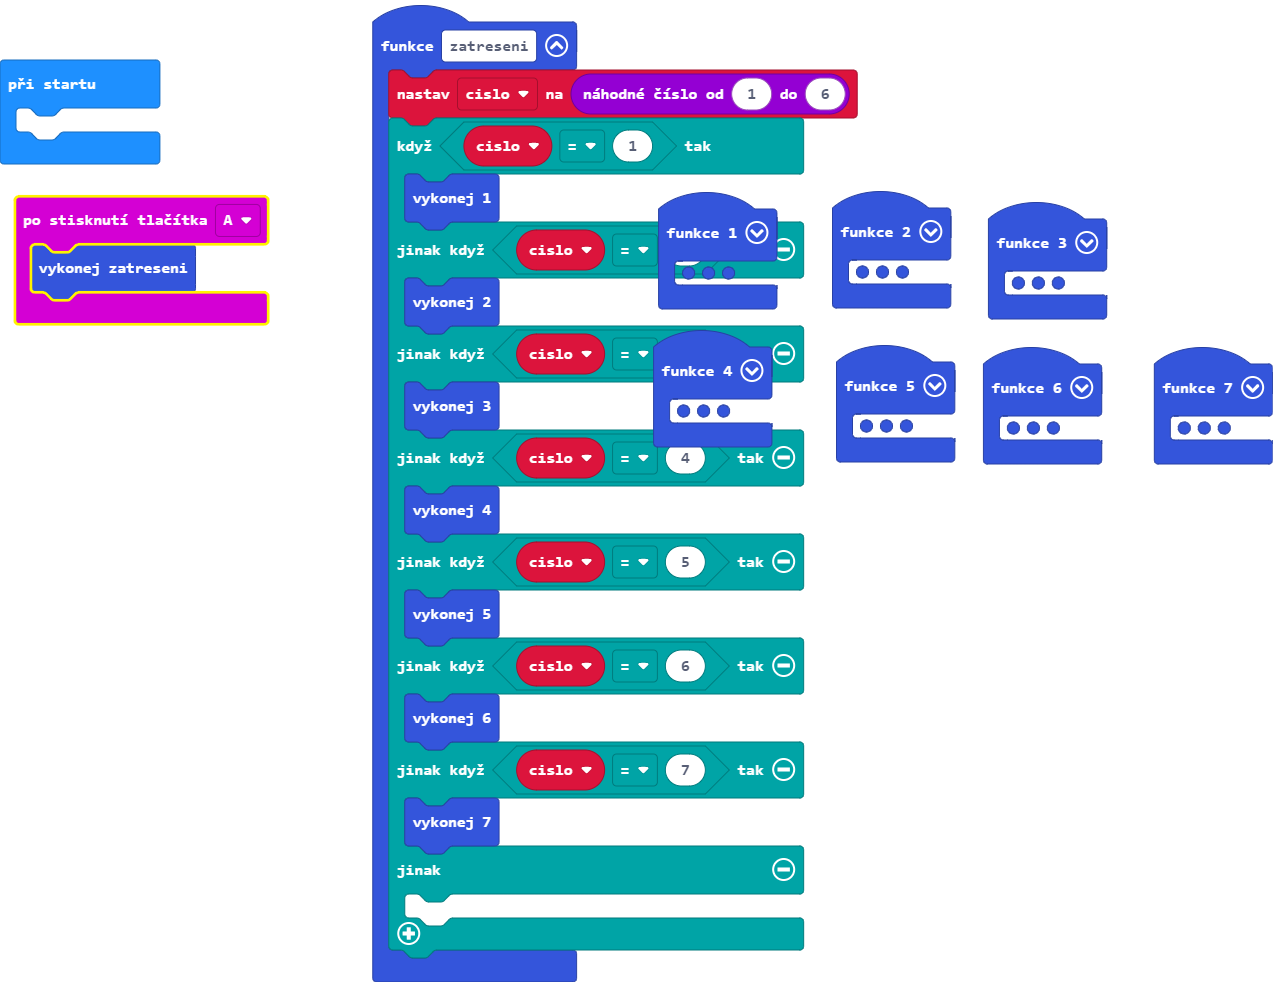
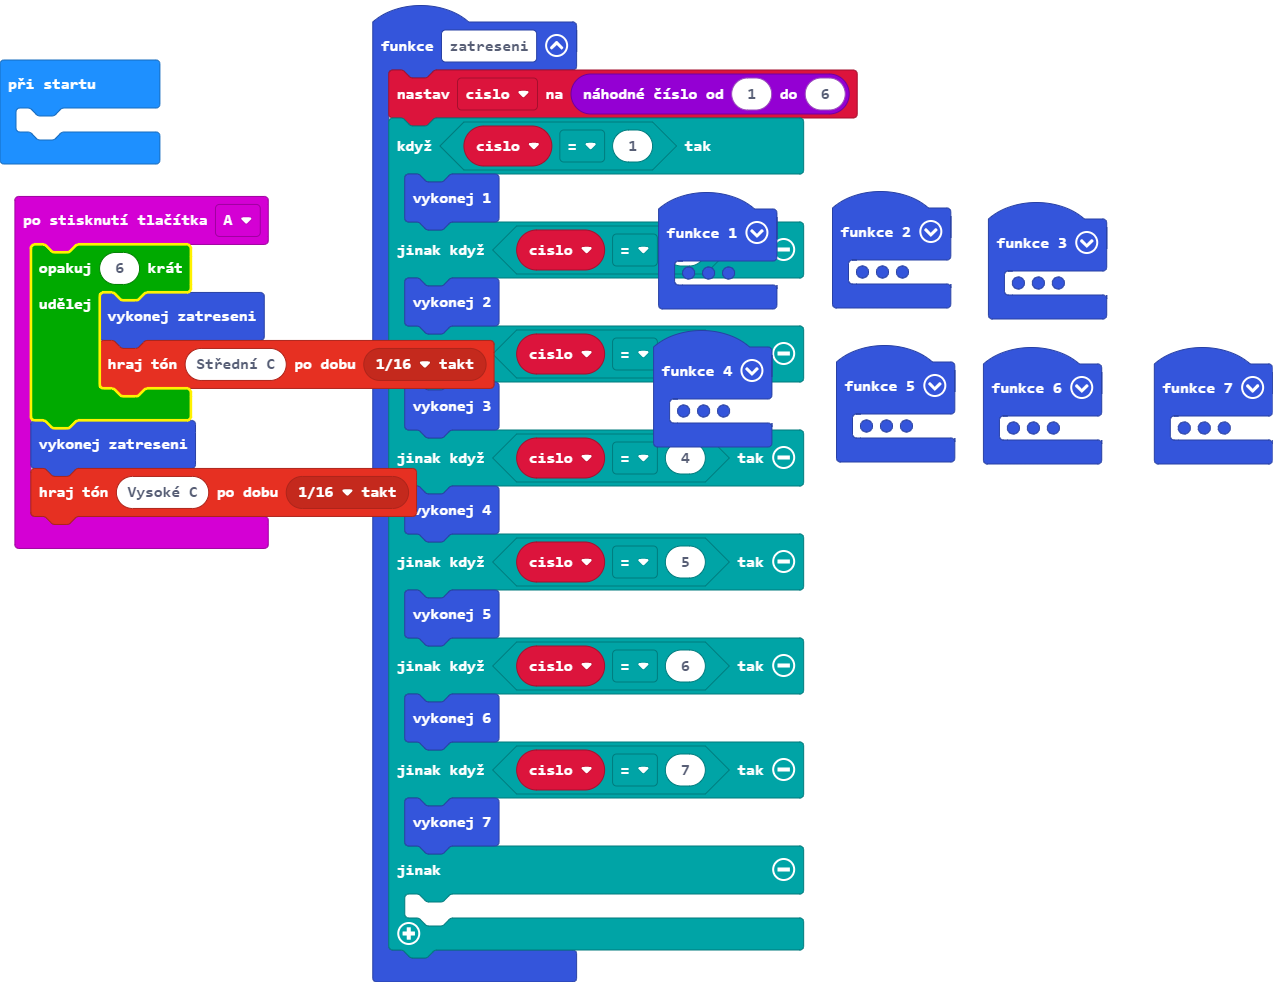
Update main.blocks, main.ts

Changed region(s): [[0.0, 0.1833, 0.3983, 0.5804], [0.1838, 0.1833, 0.2145, 0.2444]]

diff --git a/main.ts b/main.ts
@@ -47,7 +47,12 @@ function _6 () {
         `)
 }
 input.onButtonPressed(Button.A, function () {
+    for (let index = 0; index < 6; index++) {
+        zatreseni()
+        music.playTone(262, music.beat(BeatFraction.Sixteenth))
+    }
     zatreseni()
+    music.playTone(523, music.beat(BeatFraction.Sixteenth))
 })
 function _5 () {
     basic.showLeds(`
